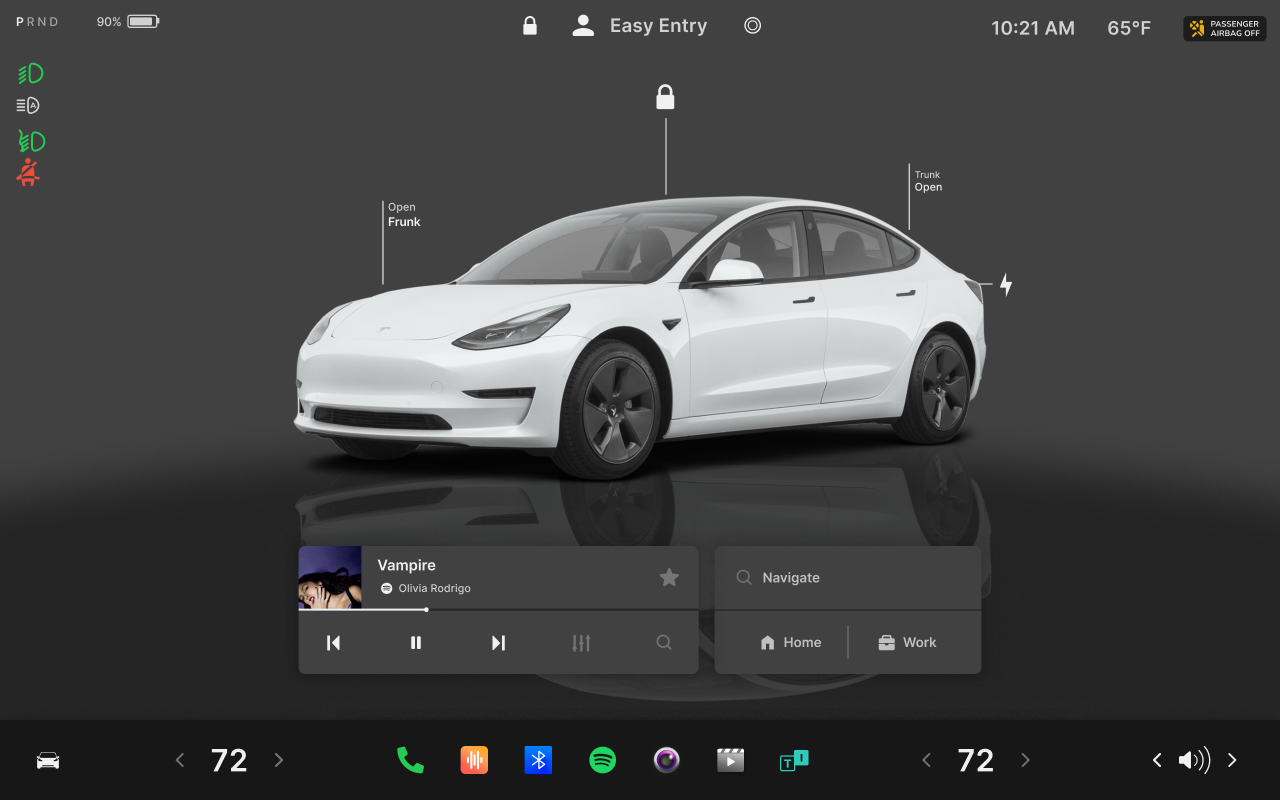
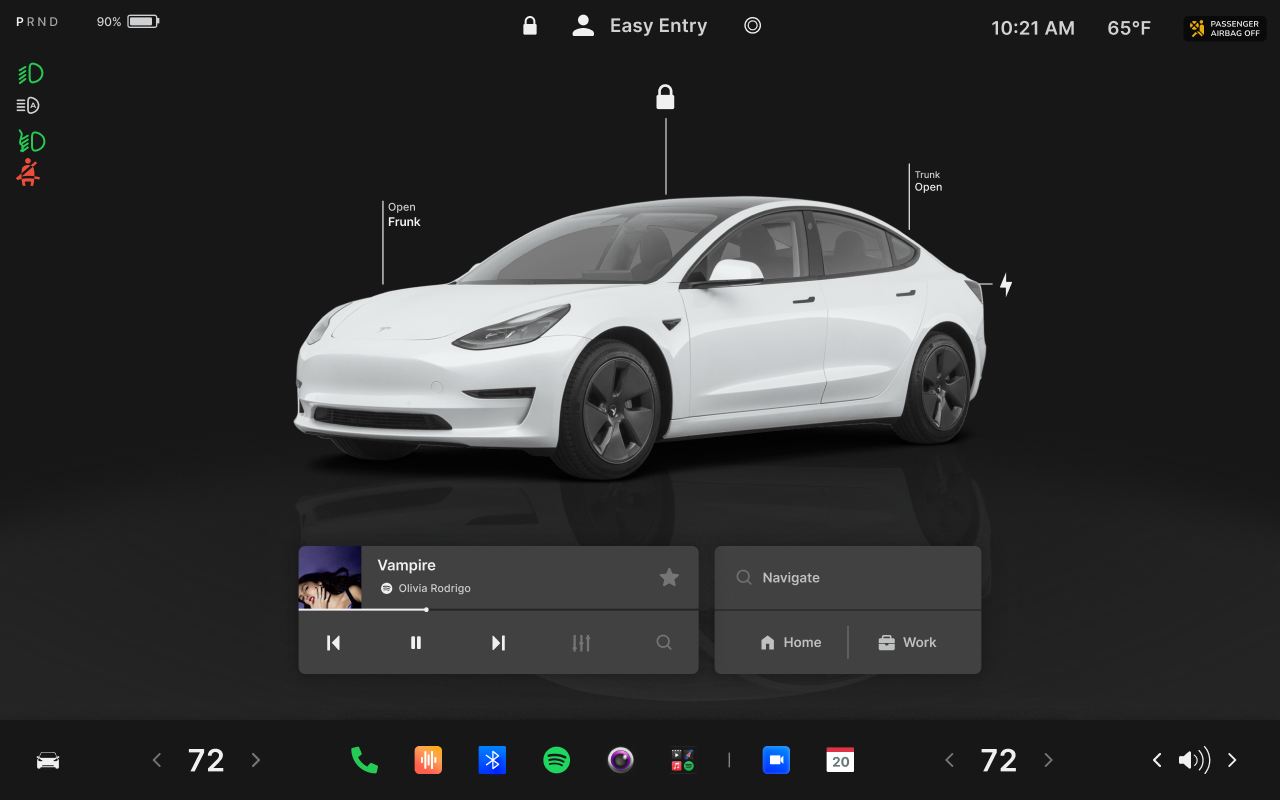
Car status Full: darker canvas bg, softer reflection and masked floor
From the updated Figma Car Status Panel (Full):
- bg is surface/canvas in every size (Dark #171717)
- mirrored reflection at 6% opacity, re-aligned
- floor shadow ellipse resized and blurred like Figma, under its alpha
  radial-gradient mask (wrapped so the blur isn't clipped)
- design-ref car-status-{light,dark} re-captured

diff --git a/src/components/CarPanel/CarPanel.tsx b/src/components/CarPanel/CarPanel.tsx
@@ -20,10 +20,10 @@ import styles from './CarPanel.module.css';
 import { capture } from '../../lib/pointer';
 
 const DRAG_THRESHOLD = 60; // design px
-/** Figma "bg": canvas beside the map; raised panel grey on Car status (the shadow ellipse becomes the floor). */
+/** Figma "bg": canvas in every size (Full was surface/panel until Anastasiya darkened it, 2026-10-27). */
 const PANEL_BG = {
   panel: 'var(--color-surface-canvas)',
-  full: 'var(--color-surface-panel)',
+  full: 'var(--color-surface-canvas)',
   collapsed: 'var(--color-surface-canvas)',
 } as const;
 /** Driving Car status: no lighter "stage" in Dark — same dark as the panel (Anastasiya). */
@@ -103,12 +103,11 @@ export function CarPanel() {
         >
           <Icon src={shadowPanel} color="var(--color-surface-sunken)" className={styles.fill} />
         </motion.div>
-        <motion.div
-          className={`${styles.layer} ${styles.shadowFull}`}
-          initial={false}
-          animate={scene.shadowFull[view]}
-          transition={transition.screen}
-        />
+        <motion.div className={styles.layer} initial={false} animate={scene.shadowFull[view]} transition={transition.screen}>
+          <div className={styles.shadowMask}>
+            <div className={styles.shadowFull} />
+          </div>
+        </motion.div>
 
         <motion.img
           className={`${styles.layer} ${styles.render}`}

diff --git a/src/components/CarPanel/CarPanel.module.css b/src/components/CarPanel/CarPanel.module.css
@@ -25,10 +25,34 @@
   height: 100% !important;
 }
 
+/* Figma "Mask group" over "shadow · full" (2556×678 ellipse, layer blur 70.7). The mask box is 2995×679 at
+   (-349, -48) of the ellipse — in % so it follows the Panel ⇄ Full morph. Alpha radial gradient: faint under
+   the car, full strength at the far edges; nothing outside the box shows (blur included, as in Figma). */
+.shadowMask {
+  position: absolute;
+  left: -13.65%;
+  top: -7.08%;
+  width: 117.18%;
+  height: 100.15%;
+  --shadow-mask: radial-gradient(
+    43.74% 90.43% at 54.29% -10.97%,
+    rgb(0 0 0 / 0.2) 7.3%,
+    rgb(0 0 0 / 0.59) 59.2%,
+    rgb(0 0 0) 100%
+  );
+  -webkit-mask-image: var(--shadow-mask);
+  mask-image: var(--shadow-mask);
+}
+
 .shadowFull {
+  position: absolute;
+  left: 11.65%;
+  top: 7.07%;
+  width: 85.34%;
+  height: 99.85%;
   border-radius: 50%;
   background: var(--color-surface-sunken);
-  filter: blur(18px);
+  filter: blur(35px);
 }
 
 .render {

diff --git a/src/components/CarPanel/geometry.ts b/src/components/CarPanel/geometry.ts
@@ -34,7 +34,7 @@ export const scene = {
   ),
   shadowFull: pair(
     { left: -270, top: 760, width: 1170, height: 260, opacity: 0 },
-    { left: -547, top: 671, width: 3014, height: 678, opacity: 1 },
+    { left: -318, top: 671, width: 2556, height: 678, opacity: 1 },
   ),
   renderPanel: pair(
     { left: 22, top: 443, width: 544, height: 307, opacity: 1 },
@@ -44,10 +44,10 @@ export const scene = {
     { left: 45, top: 467, width: 540, height: 270, opacity: 0 },
     { left: 440, top: 250, width: 1040, height: 520, opacity: 1 },
   ),
-  /** Flipped + rotated reflection under the Full render. */
+  /** Flipped + rotated reflection under the Full render (Figma: 6% so it reads as a floor reflection). */
   reflection: pair(
     { left: 50, top: 641, width: 540, height: 270, opacity: 0 },
-    { left: 487, top: 584, width: 1040, height: 520, opacity: 0.15 },
+    { left: 450, top: 584, width: 1040, height: 520, opacity: 0.06 },
   ),
 };
 

diff --git a/docs/WORKLOG.md b/docs/WORKLOG.md
@@ -33,6 +33,7 @@ Running record of feedback, decisions, discussions and learnings. Newest entries
 | Q8 | Car status top bar | ✅ Not intentional. Status bar elements keep the same size on every screen; on expand/collapse they only move and hide/reveal |
 
 ## Decisions
+- 2026-10-27 — Car status Full (Figma update by Anastasiya): bg is `surface/canvas` in every size (Dark #171717, Light #fafafa; was `surface/panel`); reflection 6% opacity at x450; floor "shadow · full" is a 2556×678 ellipse, blur 70.7, under Figma's "Mask group" alpha radial gradient (faint under the car → solid at the edges). The mask box is larger than the ellipse (Figma mask-no-clip), so code wraps the blurred ellipse in a %-sized mask box — a mask on the ellipse itself clipped its blur into a hard arc. design-ref car-status-{light,dark} re-captured.
 - 2026-10-27 — Settings search field opens the shared Keyboard over the bottom of the screen (Anastasiya). Typing goes to the field (focus ring + caret like Navigate); Enter, a page switch, the car icon or a map tap closes it. Results aren't filtered yet — the Search page still shows its Figma highlights. Deep link `?settings=search&keyboard=1`.
 - 2026-10-27 — Route line is the primary blue (`--color-map-route` → `--color-action-primary-bg-default`), not Figma's yellow (Anastasiya).
 - 2026-10-27 — P7 map: open data, no API key (Anastasiya). `scripts/render-map.mjs` renders OpenFreeMap (OSM) Positron tiles recoloured to the Figma Light/Dark palette, 1.75× symbol/line scale, zoom 15.9, no building footprints, at 3920px; route = OSRM driving route on Washington Blvd → `routeData.json` (route polyline, car + heading, destination in tile px). Route drawn as SVG polyline (pathLength draw), only destination pin + car arrow (Figma's generic pins didn't match real geography). "© OpenStreetMap contributors" credit on the map (ODbL). Re-run the script to re-style or move the trip.
